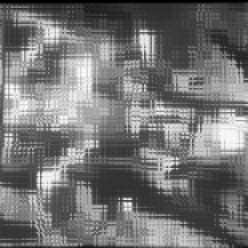
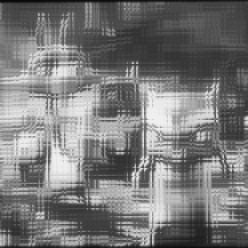
rotation new image

diff --git a/extraction.py b/extraction.py
@@ -89,18 +89,20 @@ def basic_rotations(rot0):
     rot270 = warpAffine(rot180, rot_matrix, (center * 2, center * 2))
     vertical = flip(rot0, 0)
     horizontal = flip(rot0, 1)
-    rot0_c = rectangle(cvtColor(rot0, COLOR_GRAY2BGR), (0,0), (8,8), (0,255,0), 3)
-    rot90_c = rectangle(cvtColor(rot90, COLOR_GRAY2BGR), (0,0), (8,8), (0,255,0), 3)
-    rot180_c = rectangle(cvtColor(rot180, COLOR_GRAY2BGR), (0,0), (8,8), (0,255,0), 3)
-    rot270_c = rectangle(cvtColor(rot270, COLOR_GRAY2BGR), (0,0), (8,8), (0,255,0), 3)
-    vertical_c = rectangle(cvtColor(vertical, COLOR_GRAY2BGR), (0,0), (8,8), (0,255,0), 3)
-    horizontal_c = rectangle(cvtColor(horizontal, COLOR_GRAY2BGR), (0,0), (8,8), (0,255,0), 3)
-    imwrite("rot90.jpg",rot90_c)
-    imwrite("rot180.jpg",rot180_c)
-    imwrite("rot270.jpg", rot270_c)
-    imwrite("rot0.jpg", rot0_c)
-    imwrite("horizontal.jpg", horizontal_c)
-    imwrite("vertical.jpg", vertical_c)
+    for x in range(0,31):
+        for y in range(0,31):
+           rot0_c = rectangle(cvtColor(rot0, COLOR_GRAY2BGR), (x * 8, x * 8), (y * 8, y * 8), (255,0,0), 1)
+           rot90_c = rectangle(cvtColor(rot90, COLOR_GRAY2BGR), (x * 8, x* 8), (y * 8,y * 8), (255,0,0), 1)
+           rot180_c = rectangle(cvtColor(rot180, COLOR_GRAY2BGR), (x * 8,x * 8), (y * 8,y * 8), (255,0,0), 1)
+           rot270_c = rectangle(cvtColor(rot270, COLOR_GRAY2BGR), (x * 8,x *8), (y * 8,y * 8), (255,0,0), 1)
+           vertical_c = rectangle(cvtColor(vertical, COLOR_GRAY2BGR), (x * 8,x * 8), (y * 8,y * 8), (255,0,0), 1)
+           horizontal_c = rectangle(cvtColor(horizontal, COLOR_GRAY2BGR), (x * 8,x * 8), (y * 8,y *8), (255,0,0), 1)
+    imwrite("rot90_all.jpg",rot90_c)
+    imwrite("rot180_all.jpg",rot180_c)
+    imwrite("rot270_all.jpg", rot270_c)
+    imwrite("rot0_all.jpg", rot0_c)
+    imwrite("horizontal_all.jpg", horizontal_c)
+    imwrite("vertical_all.jpg", vertical_c)
     
     rot90 = rot90[0:120, 0:120]
     rot180 = rot180[0:120, 0:120]
